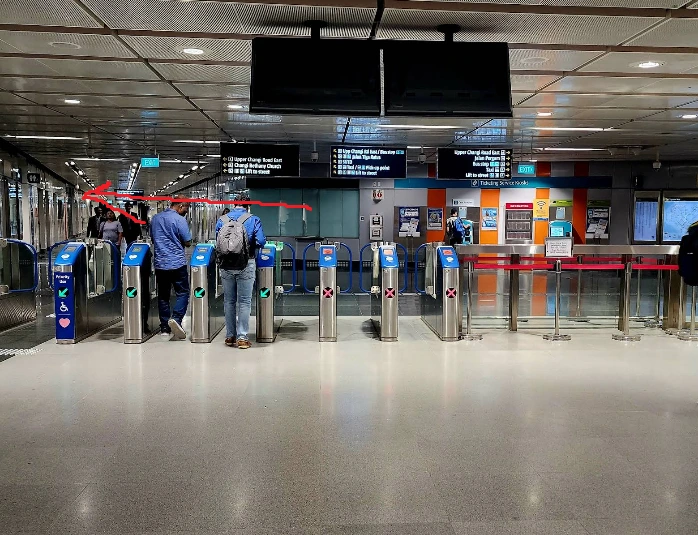
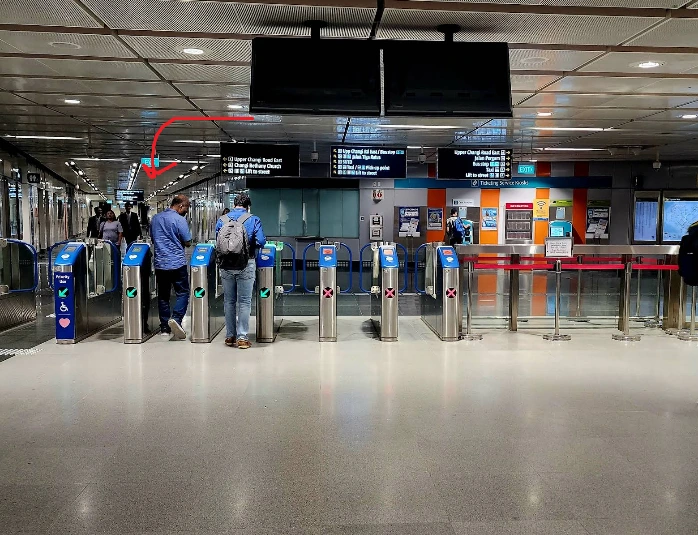
Removed drop shadow from imgs (was hard to notice + caused issues with filler img. Replaced imgs and captions & removed enumeration from bus 20 tab

Changed region(s): [[0.1203, 0.329, 0.4513, 0.4187], [0.1805, 0.2093, 0.361, 0.329]]

diff --git a/src/components/eventpage/directions.tsx b/src/components/eventpage/directions.tsx
@@ -8,7 +8,7 @@ export default function DirectionList() {
                 title: "Upper Changi MRT",
                 directions: [
                     {
-                        method: "Exit via Exit E, and you will see an usher.",
+                        method: "Exit via Exit E, and you will see an usher",
                         img: "/events/june/directions/mrtSUTDexite.webp" // replace with exit e img
                     },
                     {
@@ -21,11 +21,11 @@ export default function DirectionList() {
                 title: "Bus 2/2B/5/24",
                 directions: [
                     {
-                        method: "Take a bus to Upp Changi Stn (96049), there will be an usher at the bus stop to direct you to the corridor below.",
+                        method: "Take a bus to Upp Changi Stn (96049), there will be an usher at the bus stop to direct you to the corridor below",
                         img: "/events/june/directions/SUTDbusstop.webp"
                     },
                     {
-                        method: "Then another usher will guide you down the corridor where u will make a right at the end!",
+                        method: "Then another usher will guide you down the corridor where you will make a right at the end!",
                         img: "/events/june/directions/mrtSUTDbusstop.webp"
                     },
                 ]
@@ -39,7 +39,7 @@ export default function DirectionList() {
                         img: "/events/june/directions/filler.webp"
                     },
                     {
-                        method: "Take a bus to SUTD (96449)*, walk along this path until you see an usher at the horizontal SUTD sign",
+                        method: "Take a bus to SUTD (96449), walk along this path until you see an usher at the horizontal SUTD sign",
                         img: "/events/june/directions/20SUTDbusstop1.webp"
                     },
                     {
@@ -60,7 +60,7 @@ export default function DirectionList() {
                         img: "/events/june/directions/filler.webp"
                     },
                     {
-                        method: "Alight at Opp SUTD (96441)*, you will see an usher to guide you",
+                        method: "Alight at Opp SUTD (96441), you will see an usher to guide you",
                         img: "/events/june/directions/oppSUTDbusstop1.webp"
                     },
                     {
@@ -68,7 +68,7 @@ export default function DirectionList() {
                         img: "/events/june/directions/oppSUTDbusstop2.webp"
                     },
                     {
-                        method: "Turn right and you will see Albert Hong LT1",
+                        method: "9. Turn right and enter the building. Walk straight until you see Albert Hong LT1 on your left",
                         img: "/events/june/directions/oppSUTDbusstop3.webp"
                     },
                 ]
@@ -200,12 +200,12 @@ export default function DirectionList() {
                                             </TabsList>
                                             {Object.values(e)[0].map((f: { title: string; directions: any[]; }) => (
                                                 <TabsContent value={f.title} key={f.title}>
-                                                    {f.directions.map((g, index) => (
+                                                    {!(f.title == "Bus 20/20A") && f.directions.map((g, index) => (
                                                         <div key={g.method}>
                                                             <>
                                                             {!g.method && (
                                                                 <div>
-                                                                    <img src={g.img} alt={g.method} className="rounded-xl ring ring-1 ring-slate-800 mt-6" />
+                                                                    <img src={g.img} alt={g.method} className="rounded-xl ring-slate-800 mt-6" />
                                                                     <p className="text-center mt-3 mx-10 font-bold underline"><span className="font-semibold">{index + 1}.</span> {g.bold_method}</p>
                                                                     {g.hyperlink && (
                                                                         <div className="flex justify-center">
@@ -220,6 +220,36 @@ export default function DirectionList() {
                                                                 <div>
                                                                     <img src={g.img} alt={g.method} className="rounded-xl ring ring-1 ring-slate-800 mt-6" />
                                                                     <p className="text-center mt-3 mx-10"><span className="font-semibold">{index + 1}.</span> {g.method}</p>
+                                                                    {g.hyperlink && (
+                                                                        <div className="flex justify-center">
+                                                                            <a className="text-center mt-3 mx-10 underline text-blue-500" href={g.hyperlink}>Location on Google Maps</a>
+                                                                        </div>)
+                                                                    }
+                                                                </div>
+                                                            )}
+                                                            </>
+                                                        </div>
+                                                    ))}
+                                                    {(f.title == "Bus 20/20A") && f.directions.map((g, index) => ( // goofy solution to remove enumeration just for this tab, remove for future conferences
+                                                        <div key={g.method}>
+                                                            <>
+                                                            {!g.method && (
+                                                                <div>
+                                                                    <img src={g.img} alt={g.method} className="rounded-xl ring-slate-800 mt-6" />
+                                                                    <p className="text-center mt-3 mx-10 font-bold underline">{g.bold_method}</p>
+                                                                    {g.hyperlink && (
+                                                                        <div className="flex justify-center">
+                                                                            <a className="text-center mt-3 mx-10 underline text-blue-500" href={g.hyperlink}>Location on Google Maps</a>
+                                                                        </div>)
+                                                                    }
+                                                                </div>
+                                                            )}
+                                                            </>
+                                                            <>
+                                                            {g.method && (
+                                                                <div>
+                                                                    <img src={g.img} alt={g.method} className="rounded-xl ring ring-1 ring-slate-800 mt-6" />
+                                                                    <p className="text-center mt-3 mx-10">{g.method}</p>
                                                                     {g.hyperlink && (
                                                                         <div className="flex justify-center">
                                                                             <a className="text-center mt-3 mx-10 underline text-blue-500" href={g.hyperlink}>Location on Google Maps</a>
